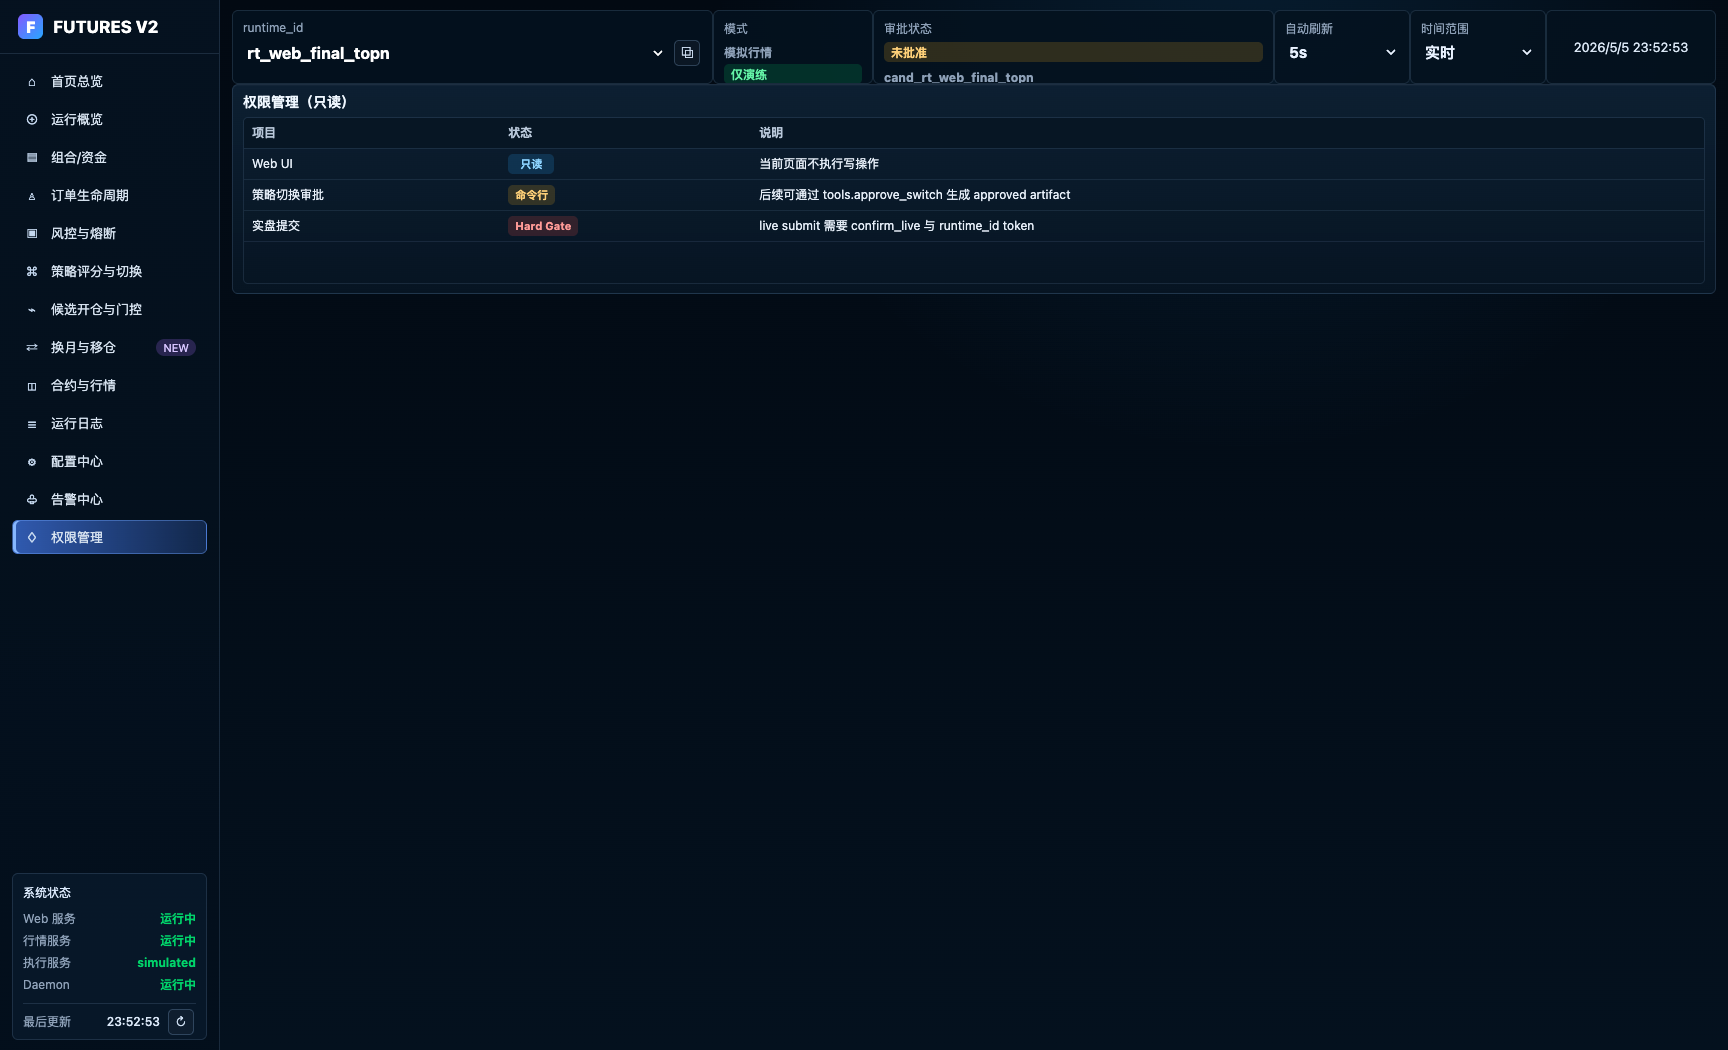
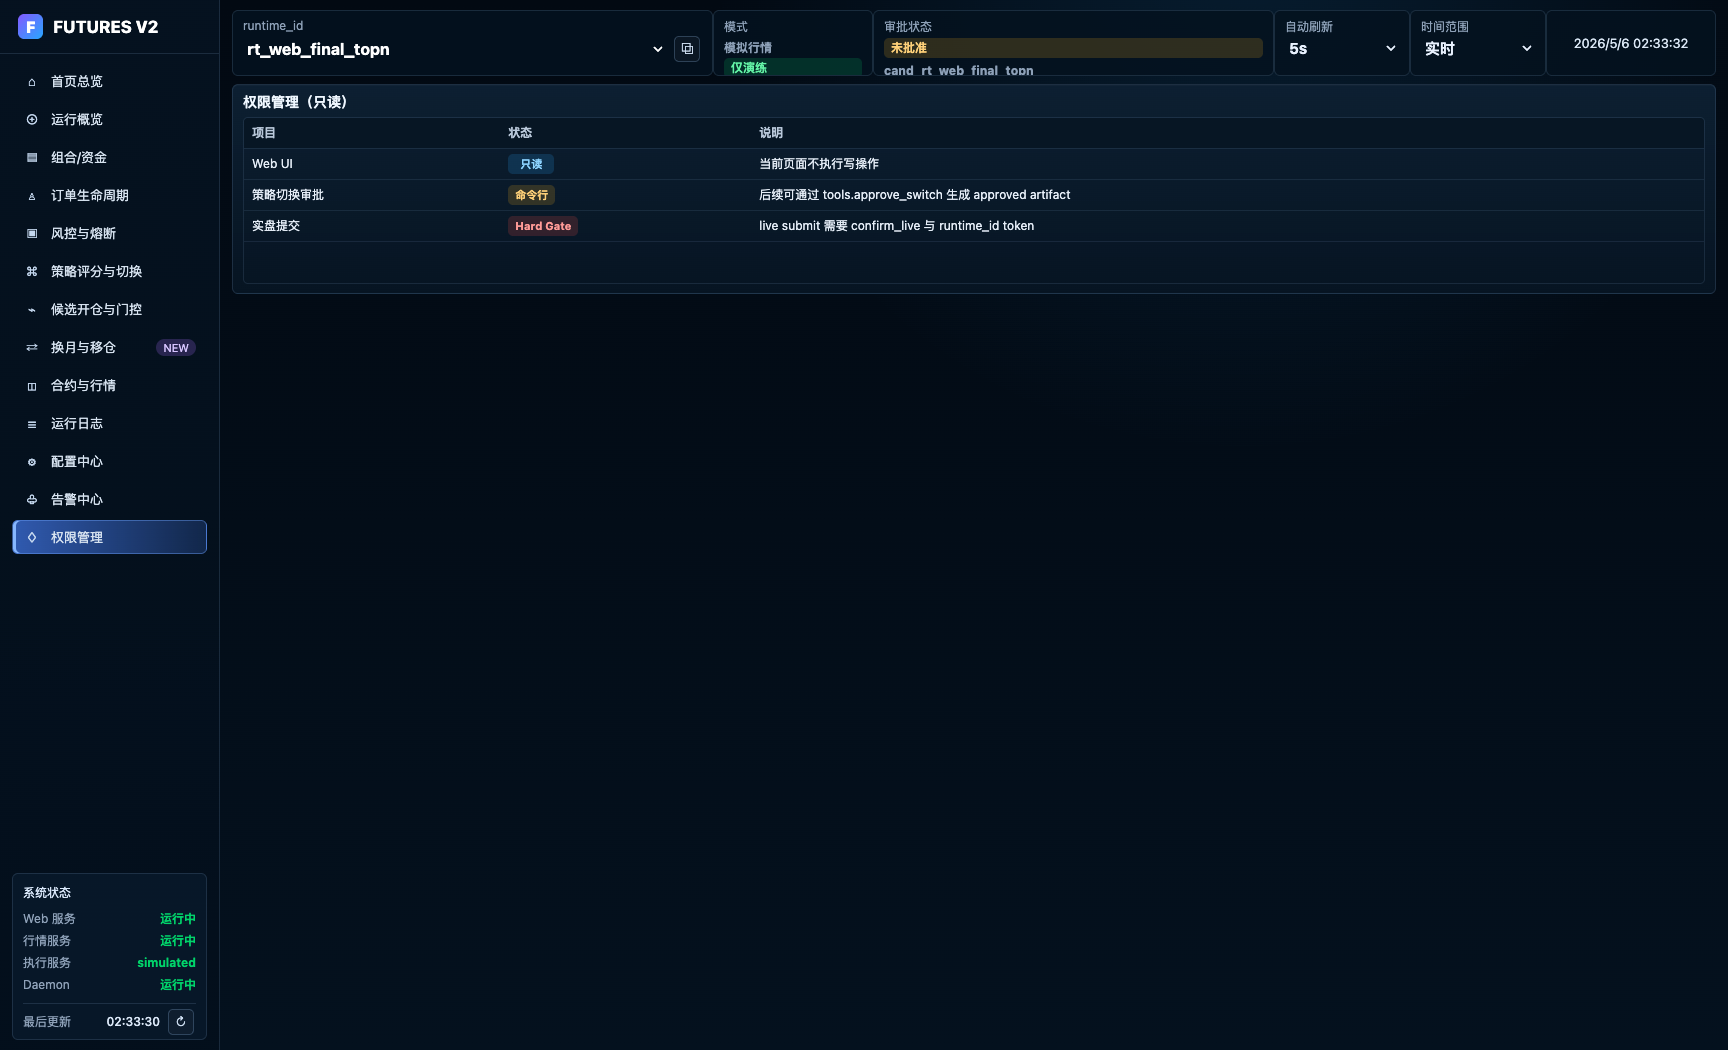
fix(ui): tighten dashboard layout and reduce empty gaps

diff --git a/web/ui/style.css b/web/ui/style.css
@@ -193,7 +193,7 @@ select {
   display: grid;
   grid-template-columns: minmax(220px, 1.2fr) 160px minmax(220px, 1fr) 136px 136px 170px;
   gap: 0;
-  height: 74px;
+  height: 66px;
   margin-bottom: 8px;
 }
 
@@ -203,13 +203,13 @@ select {
   border: var(--box-border) solid var(--line);
   border-radius: var(--radius);
   background: rgba(4, 17, 30, 0.86);
-  padding: 9px 10px;
+  padding: 7px 10px;
   overflow: hidden;
 }
 
 .field span {
   display: block;
-  margin-bottom: 5px;
+  margin-bottom: 3px;
   color: var(--muted);
   font-size: 12px;
 }
@@ -220,7 +220,7 @@ select {
   color: #fff;
   font-size: 14px;
   font-weight: 760;
-  line-height: 22px;
+  line-height: 20px;
   text-overflow: ellipsis;
   white-space: nowrap;
 }
@@ -405,6 +405,7 @@ select {
   color: #fff;
   font-size: 14px;
   font-weight: 770;
+  font-variant-numeric: tabular-nums;
   text-overflow: ellipsis;
   white-space: nowrap;
 }
@@ -481,6 +482,10 @@ select {
   font-size: 12px;
 }
 
+.summary-table {
+  table-layout: fixed;
+}
+
 .data-table.fit-table {
   table-layout: fixed;
   min-width: 100%;
@@ -533,7 +538,7 @@ select {
 .tag.gray { background: rgba(113, 127, 148, 0.22); color: #bac5d3; }
 
 .chart {
-  height: 166px;
+  height: 144px;
   padding: 6px 0 0;
 }
 
@@ -541,6 +546,28 @@ select {
   display: block;
   width: 100%;
   height: 100%;
+}
+
+.chart-legend {
+  display: flex;
+  align-items: center;
+  gap: 14px;
+  height: 22px;
+  color: var(--muted);
+  font-size: 11px;
+}
+
+.chart-legend span {
+  display: inline-flex;
+  align-items: center;
+  gap: 5px;
+  min-width: 0;
+}
+
+.chart-legend i {
+  width: 10px;
+  height: 3px;
+  border-radius: 999px;
 }
 
 .alert-list {
